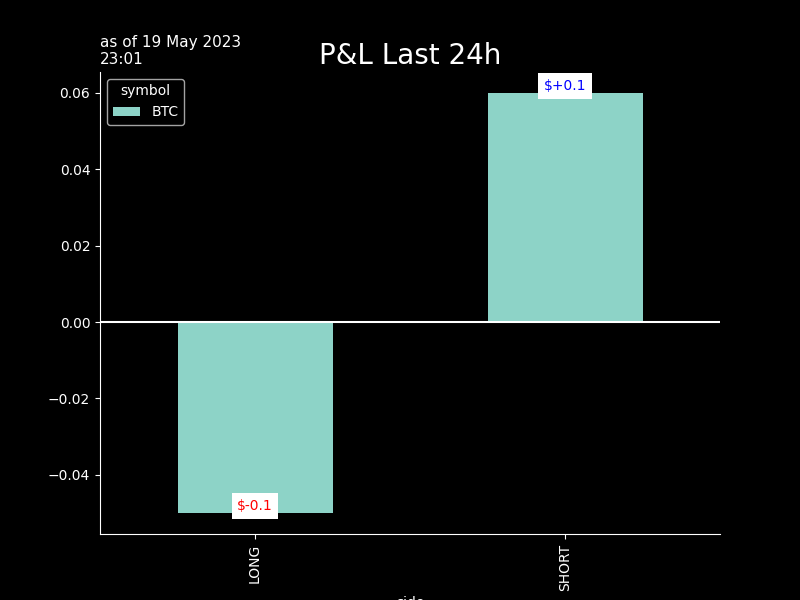
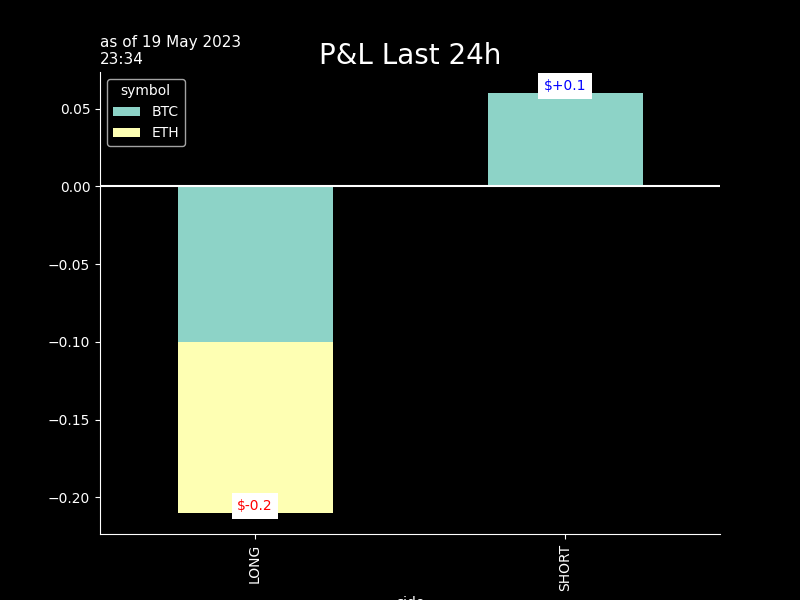
seb_commit

diff --git a/crypto/graphs/bt_trades_book.htmltrade_trades_book.html b/crypto/graphs/bt_trades_book.htmltrade_trades_book.html
@@ -37,55 +37,55 @@
   </thead>
   <tbody>
     <tr>
-      <th>ETHUSDT</th>
-      <td>1813.4200</td>
-      <td>2023-05-19 22:00:09</td>
-      <td>0.086</td>
-      <td>$156.0</td>
+      <th>BTCUSDT</th>
+      <td>26864.4000</td>
+      <td>2023-05-19 22:32:57</td>
+      <td>-0.006</td>
+      <td>$-161.2</td>
       <td>$0.03</td>
       <td>2.0</td>
-      <td>0.0</td>
-      <td>1812.21500</td>
-      <td>2023-05-19 22:53</td>
       <td>-0.1</td>
-      <td>-6.0</td>
-      <td>1812.97</td>
+      <td>26862.65000</td>
+      <td>2023-05-19 23:31</td>
+      <td>0.0</td>
+      <td>1.0</td>
+      <td>26866.</td>
       <td>-0.0</td>
-      <td>-3.0</td>
+      <td>-1.0</td>
     </tr>
     <tr>
       <th>XRPUSDT</th>
       <td>0.4677</td>
-      <td>2023-05-19 21:58:58</td>
-      <td>334.000</td>
-      <td>$156.2</td>
+      <td>2023-05-19 22:33:33</td>
+      <td>-334.000</td>
+      <td>$-156.2</td>
       <td>$0.03</td>
       <td>2.0</td>
       <td>0.0</td>
-      <td>0.46625</td>
-      <td>2023-05-19 22:53</td>
-      <td>-0.5</td>
-      <td>-31.0</td>
-      <td>.4672</td>
-      <td>-0.2</td>
-      <td>-11.0</td>
+      <td>0.46755</td>
+      <td>2023-05-19 23:31</td>
+      <td>0.1</td>
+      <td>3.0</td>
+      <td>.4681</td>
+      <td>-0.1</td>
+      <td>-8.0</td>
     </tr>
     <tr>
-      <th>BTCUSDT</th>
-      <td>26872.5000</td>
-      <td>2023-05-19 21:58:39</td>
-      <td>0.006</td>
-      <td>$161.2</td>
+      <th>ETHUSDT</th>
+      <td>1812.1400</td>
+      <td>2023-05-19 22:33:47</td>
+      <td>-0.086</td>
+      <td>$-155.8</td>
       <td>$0.03</td>
       <td>2.0</td>
-      <td>0.0</td>
-      <td>26866.45000</td>
-      <td>2023-05-19 22:53</td>
+      <td>-0.1</td>
+      <td>1812.26500</td>
+      <td>2023-05-19 23:31</td>
       <td>-0.0</td>
-      <td>-2.0</td>
-      <td>26892.5</td>
-      <td>0.1</td>
-      <td>7.0</td>
+      <td>-1.0</td>
+      <td>1812.7</td>
+      <td>-0.1</td>
+      <td>-3.0</td>
     </tr>
   </tbody>
 </table>

diff --git a/crypto/graphs/bt_trades_pnlD_recap.htmltrade_trades_pnlD_recap.html b/crypto/graphs/bt_trades_pnlD_recap.htmltrade_trades_pnlD_recap.html
@@ -1,7 +1,7 @@
 <table border="1" class="dataframe">
   <thead>
     <tr style="text-align: right;">
-      <th>19 May 23:00</th>
+      <th>19 May 23:33</th>
       <th>realizedPnl</th>
       <th>PnLvsArrival</th>
       <th>PnLvsLast</th>
@@ -10,21 +10,21 @@
   <tbody>
     <tr>
       <th>in$</th>
-      <td>0.0</td>
-      <td>-0.6</td>
-      <td>-0.1</td>
+      <td>-0.2</td>
+      <td>0.1</td>
+      <td>-0.2</td>
     </tr>
     <tr>
       <th>in bp 473 traded</th>
-      <td>0 bp</td>
-      <td>-13 bp</td>
-      <td>-2 bp</td>
+      <td>-3 bp</td>
+      <td>1 bp</td>
+      <td>-4 bp</td>
     </tr>
     <tr>
       <th>in bp 311 AUMs</th>
-      <td>0 bp</td>
-      <td>-20 bp</td>
-      <td>-3 bp</td>
+      <td>-5 bp</td>
+      <td>2 bp</td>
+      <td>-6 bp</td>
     </tr>
   </tbody>
 </table>

diff --git a/crypto/graphs/bt_trades_recap.htmltrade_trades_recap.html b/crypto/graphs/bt_trades_recap.htmltrade_trades_recap.html
@@ -9,28 +9,28 @@
   <tbody>
     <tr>
       <th>as of</th>
-      <td>19May 21:58&gt;&gt;22:00</td>
+      <td>19May 22:32&gt;&gt;22:33</td>
       <td>#trades: 3</td>
     </tr>
     <tr>
       <th>trade net</th>
-      <td>+473.0</td>
-      <td>+151.9%</td>
+      <td>-473.0</td>
+      <td>-152.0%</td>
     </tr>
     <tr>
       <th>trade gross</th>
       <td>+473.0</td>
-      <td>+151.9%</td>
+      <td>+152.0%</td>
     </tr>
     <tr>
       <th>BUY</th>
-      <td>+473.0</td>
-      <td>+151.9%</td>
+      <td>+0.0</td>
+      <td>+0.0%</td>
     </tr>
     <tr>
       <th>SELL</th>
-      <td>+0.0</td>
-      <td>+0.0%</td>
+      <td>-473.0</td>
+      <td>-152.0%</td>
     </tr>
     <tr>
       <th>fees</th>
